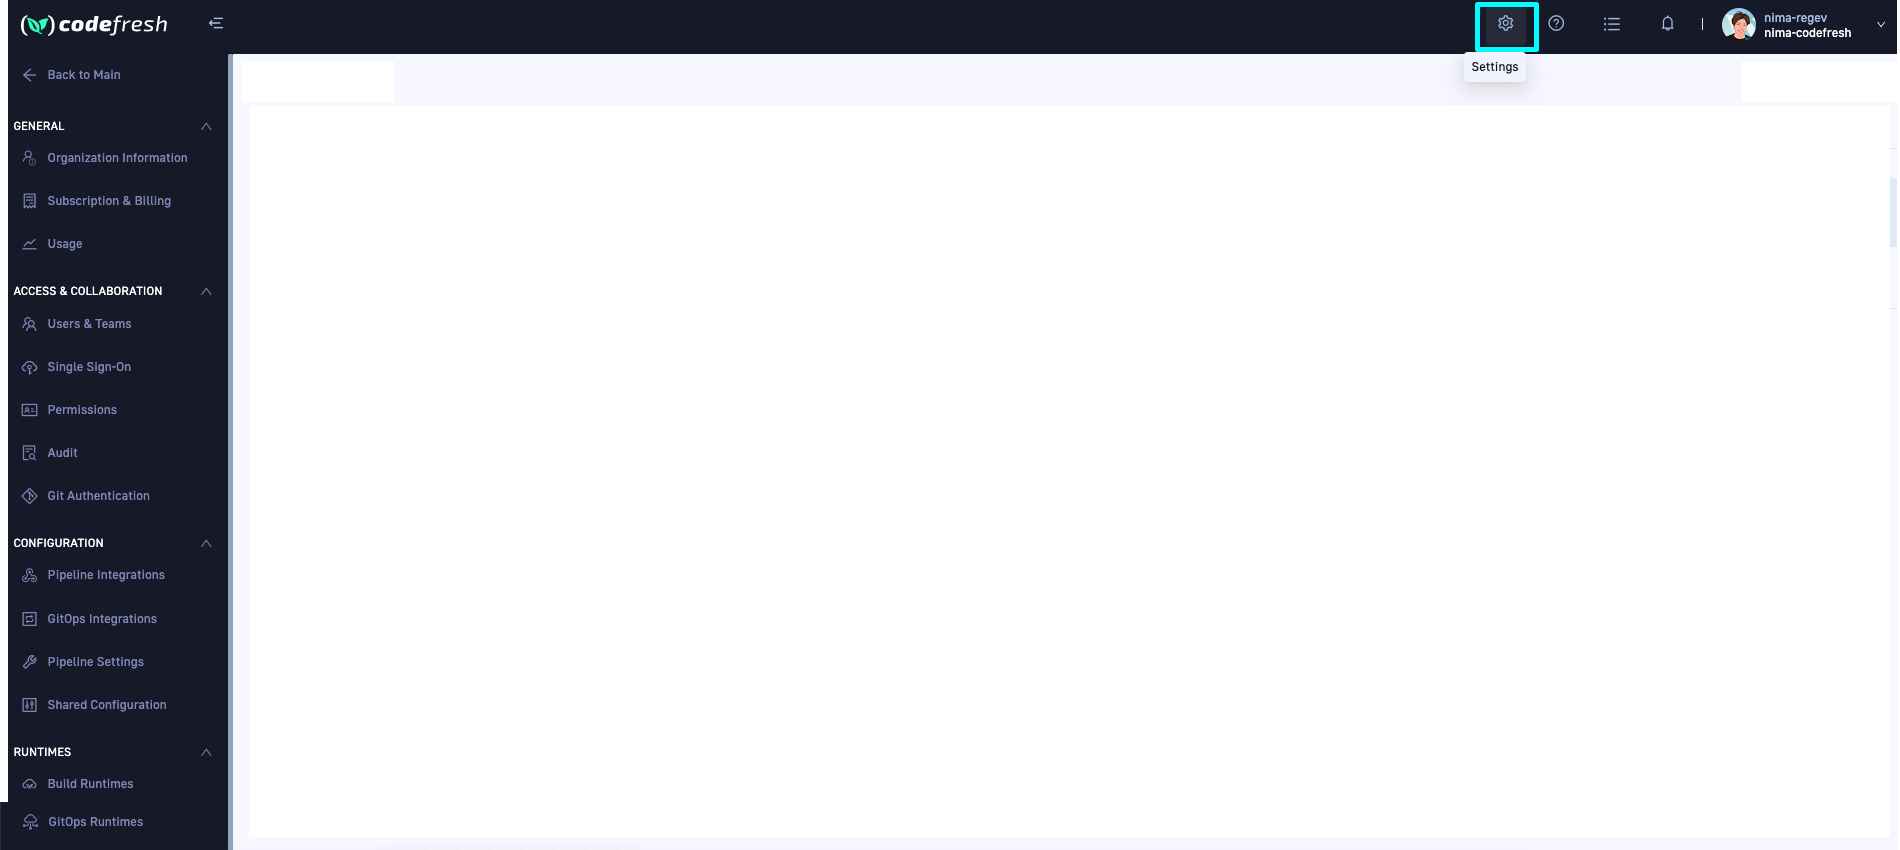
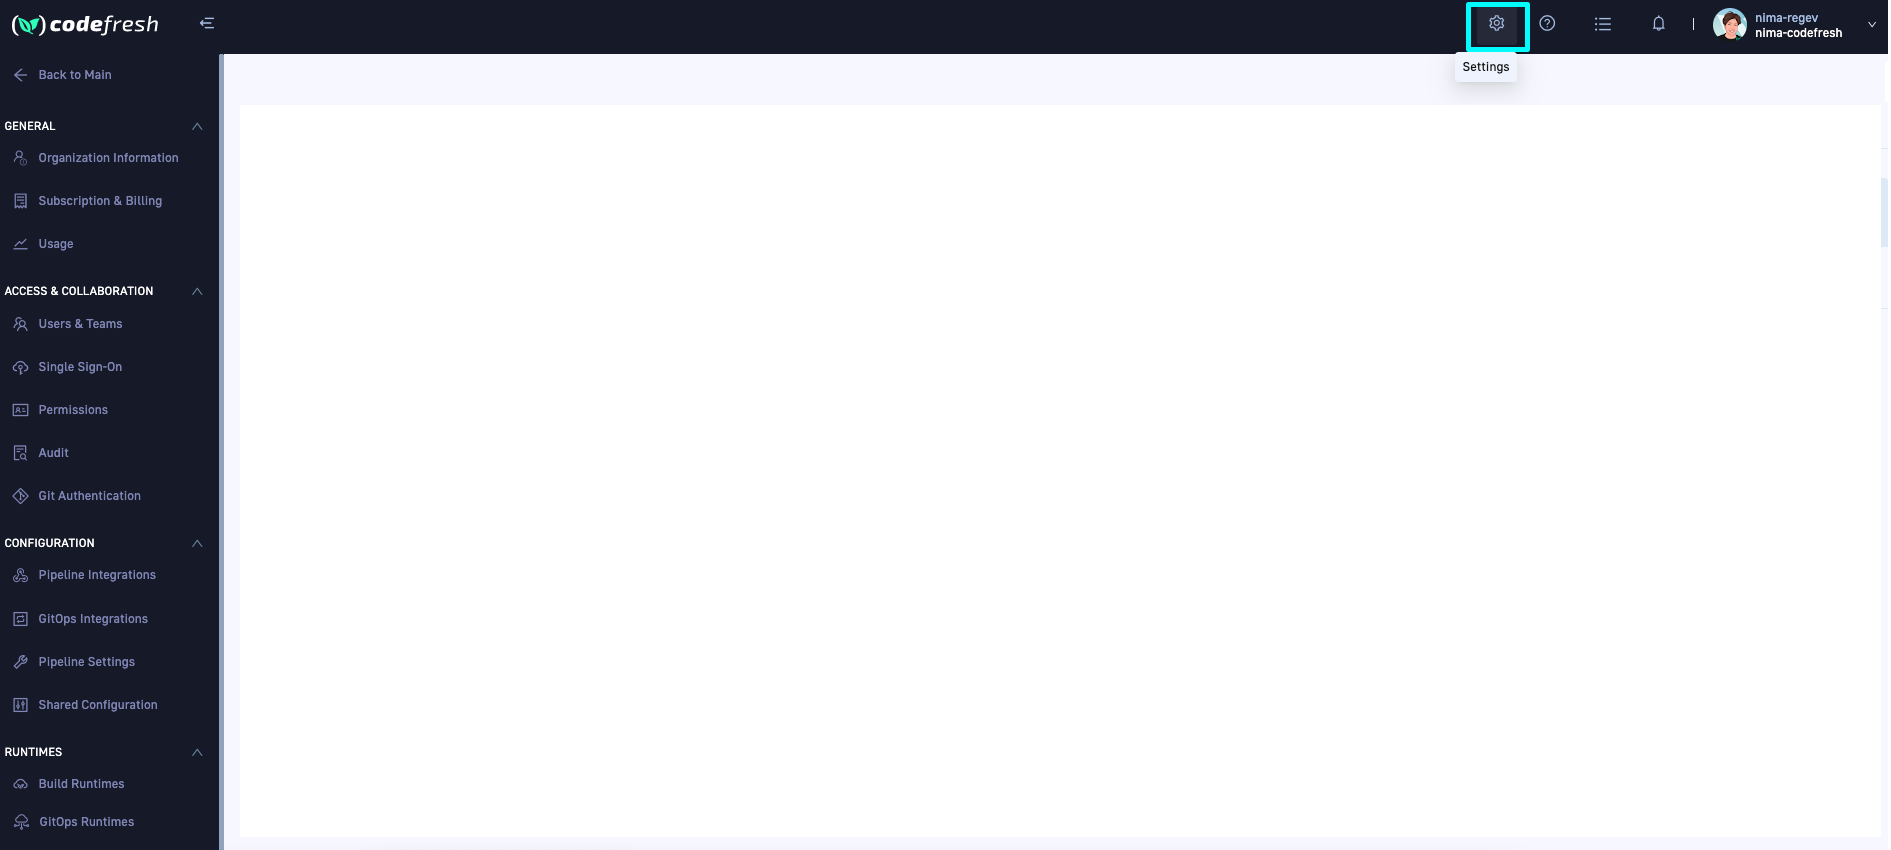
Updated codefresh new topics

diff --git a/_docs/new-codefresh/doc-changes.md b/_docs/new-codefresh/doc-changes.md
@@ -1,29 +1,29 @@
 ---
 title: "Docsite changes"
-description: "Unified documentation for Codefresh pipelines and GitOps"
+description: "Unified documentation for Codefresh Pipelines and GitOps"
 toc: true
 ---
 
-The doc site includes documentation for both Codefresh pipelines and Codefresh GitOps powered by Argo CD.  
-We have merged and moved content to accomodate both modules.  
+The doc site includes documentation for both Codefresh Pipelines and Codefresh GitOps powered by Argo CD.  
+We have merged and moved content to accommodate both modules.  
 
  
 Notes:
-* Quick Starts
+* **Quick Starts**
   We have created different quick starts for Codefresh pipelines and GitOps to get you up and running with both. 
 
-* Pipelines  
-    * Pipeline documentation from Configure CD/CD Pipelines and Codefresh YAML have been merged into Piplelines.
-    * Documentation for pipeline integrations are  Codefresh pipelines are now in Pipeline integrations.
+* **Pipelines**  
+    * Documentation from Configure CD/CD Pipelines and Codefresh YAML has been merged into Pipelines.
+    * Documentation for pipeline integrations are now in Pipeline Integrations.
 
-* Kubernetes and Helm deployments  
-  Documentation is now in Deployments > Kubernetes and Deployments > Helm, respectively.
+* **Kubernetes and Helm deployments**  
+  Documentation is now in Deployments > Kubernetes, and Deployments > Helm, respectively.
 
-* Changelog and What's New  
+* **Changelog and What's New** 
     * The Changelog includes changes to Codefresh pipeline documentation.
     * The What's New includes changes to GitOps documentation.
   We plan to merge both into a single What's New article. Stay tuned for the announcement.
 
 If you come across broken links or other issues in the documentation, please contact us.
-We want our documentation to help you, and look forward to your feedback to improve it.
+We want our documentation to help you, and look forward to your feedback as always to improve it.
 

diff --git a/_docs/new-codefresh/menu-navigation.md b/_docs/new-codefresh/menu-navigation.md
@@ -21,7 +21,7 @@ With the Settings icon always available, you have _single-click access_ to accou
   url="/images/getting-started/settings-icon.png" 
   alt="To be changed Settings icon in toolbar" 
   caption="To be changed Settings icon in toolbar"
-    max-width="70%" 
+    max-width="80%" 
 %}
 
 
@@ -209,20 +209,8 @@ tr {
     <tr>
         <td></td>
         <td></td>
-        <td><b>GitOps Controller</b></td>
-        <td>??</td>
-    </tr>
-    <tr>
-        <td></td>
-        <td></td>
         <td><b>Shared Configuration</b></td>
         <td>No change</td>
-    </tr>
-    <tr>
-        <td></td>
-        <td></td>
-        <td><b>Nodes</b></td>
-        <td>??</td>
     </tr>
     <tr>
         <td><b>SECURITY</b></td>
@@ -491,14 +479,12 @@ tr {
         <td></td>
         <td></td>
         <td><b>Billing</b></td>
-        <td> </td>
         <td>Moved to Settings icon in toolbar</td>
     </tr>
     <tr>
         <td></td>
         <td></td>
         <td><b>User Settings</b></td>
-        <td></td>
         <td>No change</td>
     </tr>
     <tr>
@@ -506,7 +492,6 @@ tr {
         <td></td>
         <td><b>Git Personal Access Token</b></td>
         <td>New item</td>
-        <td></td>
     </tr>
 </table>
 
@@ -571,7 +556,6 @@ tr {
         <td></td>
         <td><b>Users</b></td>
         <td>Moved to ACCESS & COLLABORATION<br>Renamed as Users & Teams</td>
-        <td></td>
     </tr>
     <tr>
         <td></td>
